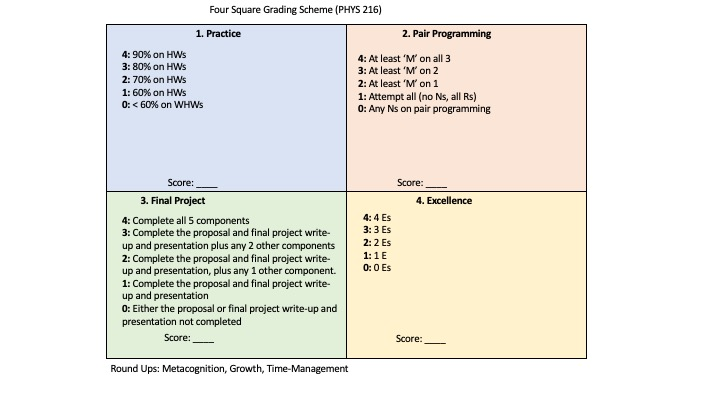
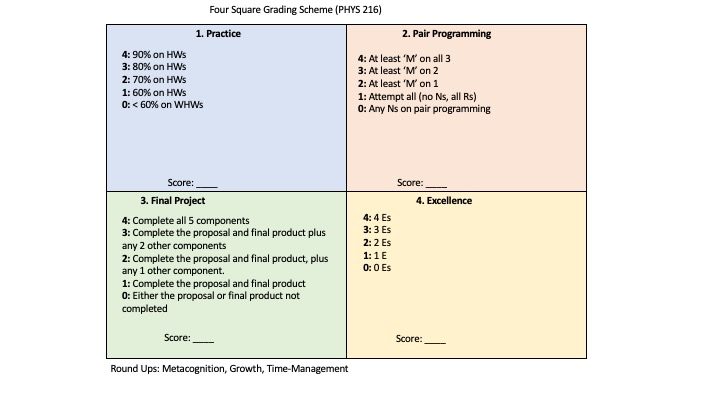
Fixed a mistake in the foursquare image

Changed region(s): [[0.1528, 0.563, 0.4889, 0.8]]

diff --git a/docs/changelog.html b/docs/changelog.html
@@ -195,6 +195,11 @@ ul.task-list li input[type="checkbox"] {
 <td>Changed “unit tests” to “pair programming projects” in “Excellence” grade category</td>
 <td>This was a copy-paste mistake! There are no unit tests in this class. Instead there are pair programming assignments</td>
 </tr>
+<tr class="even">
+<td>Jan 30, 2026</td>
+<td>Fixed typo in four square picture</td>
+<td>This was another copy-paste mistake! The final project does not have a presentation - just a “final product”</td>
+</tr>
 </tbody>
 </table>
 
